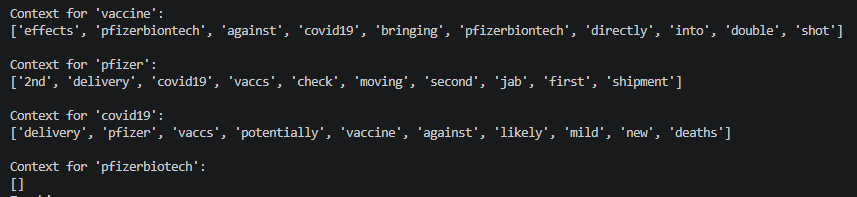
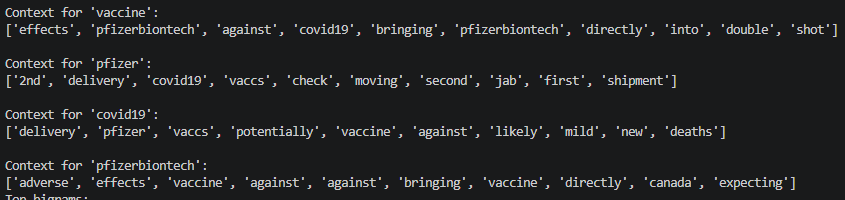
finished project

diff --git a/src/nlp/nlp_corpus_twitter_hummel.py b/src/nlp/nlp_corpus_twitter_hummel.py
@@ -336,7 +336,7 @@ for doc in corpus:
                 co_occurrence_dict[token].append(ctx)
 
 # Show results
-for target in ["vaccine", "pfizer", "covid19", "pfizerbiotech"]:
+for target in ["vaccine", "pfizer", "covid19", "pfizerbiontech"]:
     print(f"\nContext for '{target}':")
     print(co_occurrence_dict[target][:10])
 

diff --git a/docs/phase4_5README.md b/docs/phase4_5README.md
@@ -95,8 +95,18 @@ Lastly, I created graphs of the top 5 tokens for each category instead of just f
 
 Also worth looking at to analyze is the context, or words around the top 3 tokens, and the top bigrams.
 
+Context for the top 4 tokens
+
 ![context correct](/docs/images/context_twitter.png)
+
+Top Bigrams:
 
 ![top bigrams](/docs/images/top_bigrams.png)
 
-hen what does it mean - screen shots of results and answer questions from the top of the doucment about the purpose of this project.
+### Analysis
+
+Canada, England, and India all had "vaccine" as a top 5 token. All four categories had "pfizer" in some iteration in the top 5. South Africa seemed more people based as it had "helps" and "people" in it's top 5, but it is worth noting that 2 was the frequency for all five of the top five words, which is not a high frequency. Canada and India had more of what I'd call "factual" top tokens, using science terms like covid19, pfizerbiotech, vaccination, and pfizer/biontech. England's top tokens were focused on time; today, now, and minute.
+
+For the context for the top tokens, "vaccine" and "pfizerbiontech" had more technical words while "pfizer" had words dealing with getting the vaccines (second, jab, first, shipment) and "covid19" had more to deal with the effectiveness or measurement of the vaccine or possibly the virus itself with words like; potentially, against, likely, mild, new, and deaths.
+
+Bigrams help us understand the context in which the words are used. For this dataset, bigrams do not provide as much context for us as only the top three bigrams happen more than once, and everything else only happens once. However, when coupled with the top tokens graph, it does provide a little more context. For example, the token pfizerbiontech occurs 3 times and based on the bigram table, for two out of those three times it is the "pfizerbiontech vaccine". This can lead us to understand that pfizerbiontech is a type of vaccine.
